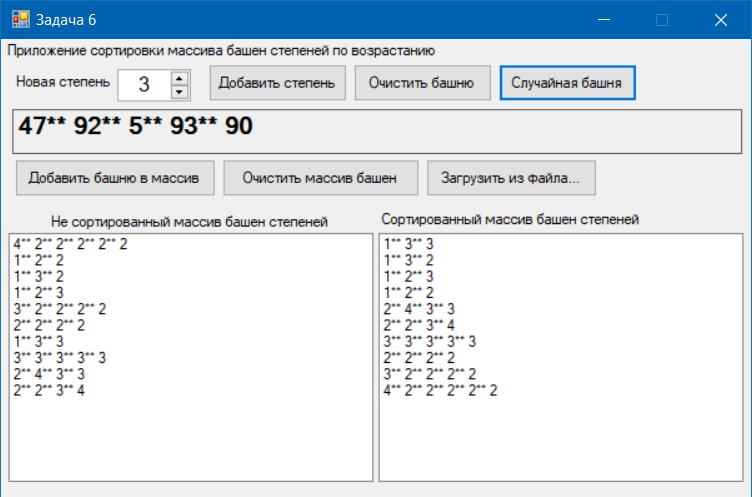
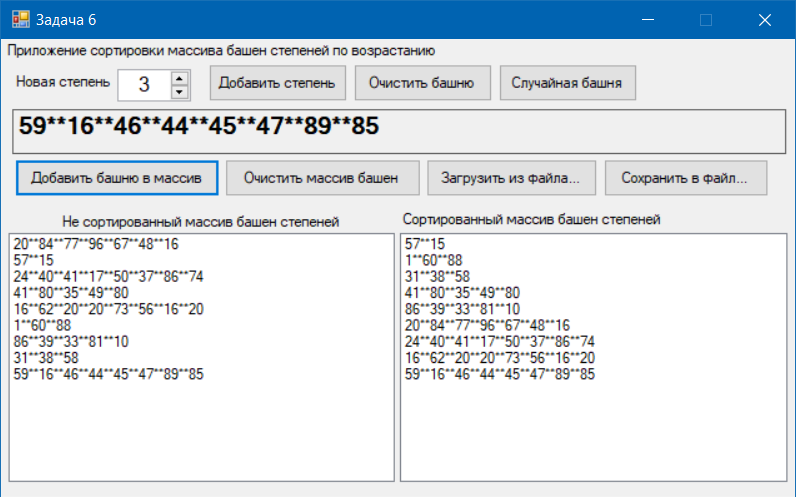
fix

diff --git a/Task_6/FormMain.Designer.cs b/Task_6/FormMain.Designer.cs
@@ -31,6 +31,7 @@
             this.components = new System.ComponentModel.Container();
             this.label1 = new System.Windows.Forms.Label();
             this.panelTop = new System.Windows.Forms.Panel();
+            this.btnLoad = new System.Windows.Forms.Button();
             this.lblTower = new System.Windows.Forms.Label();
             this.btnCreateTower = new System.Windows.Forms.Button();
             this.label4 = new System.Windows.Forms.Label();
@@ -44,8 +45,8 @@
             this.lbTowers = new System.Windows.Forms.ListBox();
             this.lbTowersSort = new System.Windows.Forms.ListBox();
             this.label3 = new System.Windows.Forms.Label();
-            this.btnLoad = new System.Windows.Forms.Button();
             this.toolTip1 = new System.Windows.Forms.ToolTip(this.components);
+            this.btnSave = new System.Windows.Forms.Button();
             this.panelTop.SuspendLayout();
             ((System.ComponentModel.ISupportInitialize)(this.numPower)).BeginInit();
             this.tableLayoutPanel1.SuspendLayout();
@@ -56,12 +57,13 @@
             this.label1.Dock = System.Windows.Forms.DockStyle.Top;
             this.label1.Location = new System.Drawing.Point(3, 3);
             this.label1.Name = "label1";
-            this.label1.Size = new System.Drawing.Size(794, 17);
+            this.label1.Size = new System.Drawing.Size(841, 17);
             this.label1.TabIndex = 0;
             this.label1.Text = "Приложение сортировки массива башен степеней по возрастанию";
             // 
             // panelTop
             // 
+            this.panelTop.Controls.Add(this.btnSave);
             this.panelTop.Controls.Add(this.btnLoad);
             this.panelTop.Controls.Add(this.lblTower);
             this.panelTop.Controls.Add(this.btnCreateTower);
@@ -74,8 +76,19 @@
             this.panelTop.Dock = System.Windows.Forms.DockStyle.Top;
             this.panelTop.Location = new System.Drawing.Point(3, 20);
             this.panelTop.Name = "panelTop";
-            this.panelTop.Size = new System.Drawing.Size(794, 146);
+            this.panelTop.Size = new System.Drawing.Size(841, 146);
             this.panelTop.TabIndex = 1;
+            // 
+            // btnLoad
+            // 
+            this.btnLoad.Location = new System.Drawing.Point(451, 99);
+            this.btnLoad.Name = "btnLoad";
+            this.btnLoad.Size = new System.Drawing.Size(183, 37);
+            this.btnLoad.TabIndex = 10;
+            this.btnLoad.Text = "Загрузить из файла...";
+            this.toolTip1.SetToolTip(this.btnLoad, "В каждой строке идут числа разделенные пробелом");
+            this.btnLoad.UseVisualStyleBackColor = true;
+            this.btnLoad.Click += new System.EventHandler(this.btnLoad_Click);
             // 
             // lblTower
             // 
@@ -85,7 +98,7 @@
             this.lblTower.Font = new System.Drawing.Font("Microsoft Sans Serif", 13.8F, System.Drawing.FontStyle.Bold, System.Drawing.GraphicsUnit.Point, ((byte)(204)));
             this.lblTower.Location = new System.Drawing.Point(9, 49);
             this.lblTower.Name = "lblTower";
-            this.lblTower.Size = new System.Drawing.Size(778, 44);
+            this.lblTower.Size = new System.Drawing.Size(825, 44);
             this.lblTower.TabIndex = 9;
             // 
             // btnCreateTower
@@ -133,9 +146,9 @@
             // 
             // btnClearTowerList
             // 
-            this.btnClearTowerList.Location = new System.Drawing.Point(233, 99);
+            this.btnClearTowerList.Location = new System.Drawing.Point(236, 99);
             this.btnClearTowerList.Name = "btnClearTowerList";
-            this.btnClearTowerList.Size = new System.Drawing.Size(210, 37);
+            this.btnClearTowerList.Size = new System.Drawing.Size(209, 37);
             this.btnClearTowerList.TabIndex = 3;
             this.btnClearTowerList.Text = "Очистить массив башен";
             this.btnClearTowerList.UseVisualStyleBackColor = true;
@@ -145,7 +158,7 @@
             // 
             this.btnAddTower.Location = new System.Drawing.Point(12, 99);
             this.btnAddTower.Name = "btnAddTower";
-            this.btnAddTower.Size = new System.Drawing.Size(215, 37);
+            this.btnAddTower.Size = new System.Drawing.Size(218, 37);
             this.btnAddTower.TabIndex = 2;
             this.btnAddTower.Text = "Добавить башню в массив";
             this.btnAddTower.UseVisualStyleBackColor = true;
@@ -187,7 +200,7 @@
             this.tableLayoutPanel1.RowCount = 2;
             this.tableLayoutPanel1.RowStyles.Add(new System.Windows.Forms.RowStyle(System.Windows.Forms.SizeType.Absolute, 20F));
             this.tableLayoutPanel1.RowStyles.Add(new System.Windows.Forms.RowStyle());
-            this.tableLayoutPanel1.Size = new System.Drawing.Size(794, 281);
+            this.tableLayoutPanel1.Size = new System.Drawing.Size(841, 281);
             this.tableLayoutPanel1.TabIndex = 2;
             // 
             // label2
@@ -195,7 +208,7 @@
             this.label2.Dock = System.Windows.Forms.DockStyle.Top;
             this.label2.Location = new System.Drawing.Point(6, 3);
             this.label2.Name = "label2";
-            this.label2.Size = new System.Drawing.Size(388, 20);
+            this.label2.Size = new System.Drawing.Size(411, 20);
             this.label2.TabIndex = 0;
             this.label2.Text = "Не сортированный массив башен степеней";
             this.label2.TextAlign = System.Drawing.ContentAlignment.MiddleCenter;
@@ -207,7 +220,7 @@
             this.lbTowers.ItemHeight = 16;
             this.lbTowers.Location = new System.Drawing.Point(6, 26);
             this.lbTowers.Name = "lbTowers";
-            this.lbTowers.Size = new System.Drawing.Size(388, 249);
+            this.lbTowers.Size = new System.Drawing.Size(411, 249);
             this.lbTowers.TabIndex = 1;
             // 
             // lbTowersSort
@@ -215,41 +228,39 @@
             this.lbTowersSort.Dock = System.Windows.Forms.DockStyle.Fill;
             this.lbTowersSort.FormattingEnabled = true;
             this.lbTowersSort.ItemHeight = 16;
-            this.lbTowersSort.Location = new System.Drawing.Point(400, 26);
+            this.lbTowersSort.Location = new System.Drawing.Point(423, 26);
             this.lbTowersSort.Name = "lbTowersSort";
-            this.lbTowersSort.Size = new System.Drawing.Size(388, 249);
+            this.lbTowersSort.Size = new System.Drawing.Size(412, 249);
             this.lbTowersSort.TabIndex = 2;
             // 
             // label3
             // 
             this.label3.AutoSize = true;
-            this.label3.Location = new System.Drawing.Point(400, 3);
+            this.label3.Location = new System.Drawing.Point(423, 3);
             this.label3.Name = "label3";
             this.label3.Size = new System.Drawing.Size(276, 17);
             this.label3.TabIndex = 3;
             this.label3.Text = "Сортированный массив башен степеней";
             // 
-            // btnLoad
-            // 
-            this.btnLoad.Location = new System.Drawing.Point(450, 99);
-            this.btnLoad.Name = "btnLoad";
-            this.btnLoad.Size = new System.Drawing.Size(183, 37);
-            this.btnLoad.TabIndex = 10;
-            this.btnLoad.Text = "Загрузить из файла...";
-            this.toolTip1.SetToolTip(this.btnLoad, "В первой строке файла должен содержать кол-во строк\r\nВ каждой последующей строке " +
-        "идут числа разделенные пробелом");
-            this.btnLoad.UseVisualStyleBackColor = true;
-            this.btnLoad.Click += new System.EventHandler(this.btnLoad_Click);
-            // 
             // toolTip1
             // 
             this.toolTip1.ToolTipTitle = "Формат файла";
+            // 
+            // btnSave
+            // 
+            this.btnSave.Location = new System.Drawing.Point(640, 99);
+            this.btnSave.Name = "btnSave";
+            this.btnSave.Size = new System.Drawing.Size(176, 37);
+            this.btnSave.TabIndex = 11;
+            this.btnSave.Text = "Сохранить в файл...";
+            this.btnSave.UseVisualStyleBackColor = true;
+            this.btnSave.Click += new System.EventHandler(this.btnSave_Click);
             // 
             // FormMain
             // 
             this.AutoScaleDimensions = new System.Drawing.SizeF(8F, 16F);
             this.AutoScaleMode = System.Windows.Forms.AutoScaleMode.Font;
-            this.ClientSize = new System.Drawing.Size(800, 450);
+            this.ClientSize = new System.Drawing.Size(847, 450);
             this.Controls.Add(this.tableLayoutPanel1);
             this.Controls.Add(this.panelTop);
             this.Controls.Add(this.label1);
@@ -287,6 +298,7 @@
         private System.Windows.Forms.Label lblTower;
         private System.Windows.Forms.Button btnLoad;
         private System.Windows.Forms.ToolTip toolTip1;
+        private System.Windows.Forms.Button btnSave;
     }
 }
 

diff --git a/Task_6/FormMain.cs b/Task_6/FormMain.cs
@@ -23,7 +23,7 @@ namespace Task_6
 
         private void btnAddPower_Click(object sender, EventArgs ea)
         {
-            tower.Add((int)numPower.Value);
+            tower.AddPower((int)numPower.Value);
             lblTower.Text = tower.ToStringPowers();
         }
 
@@ -48,7 +48,9 @@ namespace Task_6
                 lbTowers.Items.Add(t.ToStringPowers());
 
             foreach (var t in Helper.SortTowers(towers))
-                lbTowersSort.Items.Add(t.ToStringPowers());// + "=" + t.ValuePower());
+                lbTowersSort.Items.Add(t.ToStringPowers());
+
+            lblTower.Text = tower.ToStringPowers();
         }
 
         private void btnAddTower_Click(object sender, EventArgs e)
@@ -67,16 +69,20 @@ namespace Task_6
 
         private void btnLoad_Click(object sender, EventArgs ea)
         {
-            using (OpenFileDialog openFileDialog = new OpenFileDialog())
+            using (OpenFileDialog ofd = new OpenFileDialog())
             {
-                openFileDialog.Filter = "txt files (*.txt)|*.txt|All files (*.*)|*.*";
-                openFileDialog.FilterIndex = 1;
+                ofd.Filter = "txt files (*.txt)|*.txt|All files (*.*)|*.*";
+                ofd.FilterIndex = 1;
+                ofd.InitialDirectory = Application.StartupPath;
+                ofd.RestoreDirectory = true;
 
-                if (openFileDialog.ShowDialog() == DialogResult.OK)
+                if (ofd.ShowDialog() == DialogResult.OK)
                 {
                     try
                     {
-                        var lines = File.ReadAllLines(openFileDialog.FileName);
+                        towers.Clear();
+
+                        var lines = File.ReadAllLines(ofd.FileName);
                         foreach (var line in lines)
                         {
                             string[] numbers = line.Split(' ');
@@ -95,7 +101,38 @@ namespace Task_6
                     }
                 }
             }
-            printTowers(towers);
+            tower.Clear();
+            printTowers(towers);            
+        }
+
+        private void btnSave_Click(object sender, EventArgs ea)
+        {
+            try
+            {
+                using (var sfd = new SaveFileDialog())
+                {
+                    sfd.Filter = "txt files (*.txt)|*.txt|All files (*.*)|*.*";
+                    sfd.FileName = "output.txt";
+                    sfd.FilterIndex = 1;
+                    sfd.InitialDirectory = Application.StartupPath;
+                    sfd.RestoreDirectory = true;
+
+                    if (sfd.ShowDialog() == DialogResult.OK)
+                    {
+                        StringBuilder sb = new StringBuilder();
+                        
+                        foreach (var t in towers)
+                            sb.AppendLine(t.ToStringPowers(" "));
+
+                        File.WriteAllText(sfd.FileName, sb.ToString());
+                    }
+                }
+            }
+            catch (Exception e)
+            {
+                MessageBox.Show("Ошибка сохранения в файл. " + e.Message);
+            }
+
         }
     }
 

diff --git a/Task_6/Helper.cs b/Task_6/Helper.cs
@@ -1,31 +1,19 @@
 using System;
 using System.Collections.Generic;
-using System.Drawing;
-using System.Linq;
-using System.Runtime.CompilerServices;
-using System.Security.Cryptography;
 using System.Text;
-using System.Threading.Tasks;
-using System.Windows.Forms;
 
 namespace Task_6
 {
     static class Helper
     {
-        const string prefix = "** ";
-
         internal static IEnumerable<List<int>> SortTowers(List<List<int>> towers)
         {
             var towersSort = new List<List<int>>();
             foreach (var t in towers)
                 towersSort.Add(new List<int>(t));
 
-            towersSort.Sort(
-                delegate (List<int> p1, List<int> p2) 
-                {
-                    return p1.ValuePower().CompareTo(p2.ValuePower());
-                }
-            );
+            IComparer<List<int>> comparer = new CompareClass();
+            towersSort.Sort(comparer);
 
             foreach (var t in towersSort)
                 yield return t;
@@ -50,9 +38,7 @@ namespace Task_6
                     for (int i = 0; i < t.Count; i++)
                         if (Tower[i] != t[i]) b = false;
 
-                    if (b) throw new Exception("В списке уже есть такая башня"+Environment.NewLine+
-                                Tower.ToStringPowers()+ Environment.NewLine +
-                                t.ToStringPowers());
+                    if (b) throw new Exception("В списке уже есть такая башня");
                 }                                      
 
             lst.Add(Tower);
@@ -66,7 +52,7 @@ namespace Task_6
             for (int i = 0; i < cnt; i++) lst.Add(r.Next(1, 99));
         }
 
-        public static string ToStringPowers(this List<int> lst)
+        public static string ToStringPowers(this List<int> lst, string prefix = "**")
         {
             StringBuilder s = new StringBuilder();
 
@@ -76,13 +62,22 @@ namespace Task_6
             return s.ToString();
         }
 
-        public static double ValuePower(this List<int> lst)
-        {
-            double res = 1;
-            foreach (var t in lst)
-                if (t>1) res *= Math.Log10(t);
 
-            return 1/res;
+
+
+
+
+        
+    }
+
+    public class CompareClass : IComparer<List<int>>
+    {
+        const double EPS = 0.0000000001;
+
+        // Call CaseInsensitiveComparer.Compare with the parameters reversed.
+        public int Compare(List<int> x, List<int> y)
+        {
+            return x.Count.CompareTo(y.Count);
         }
     }
 }
